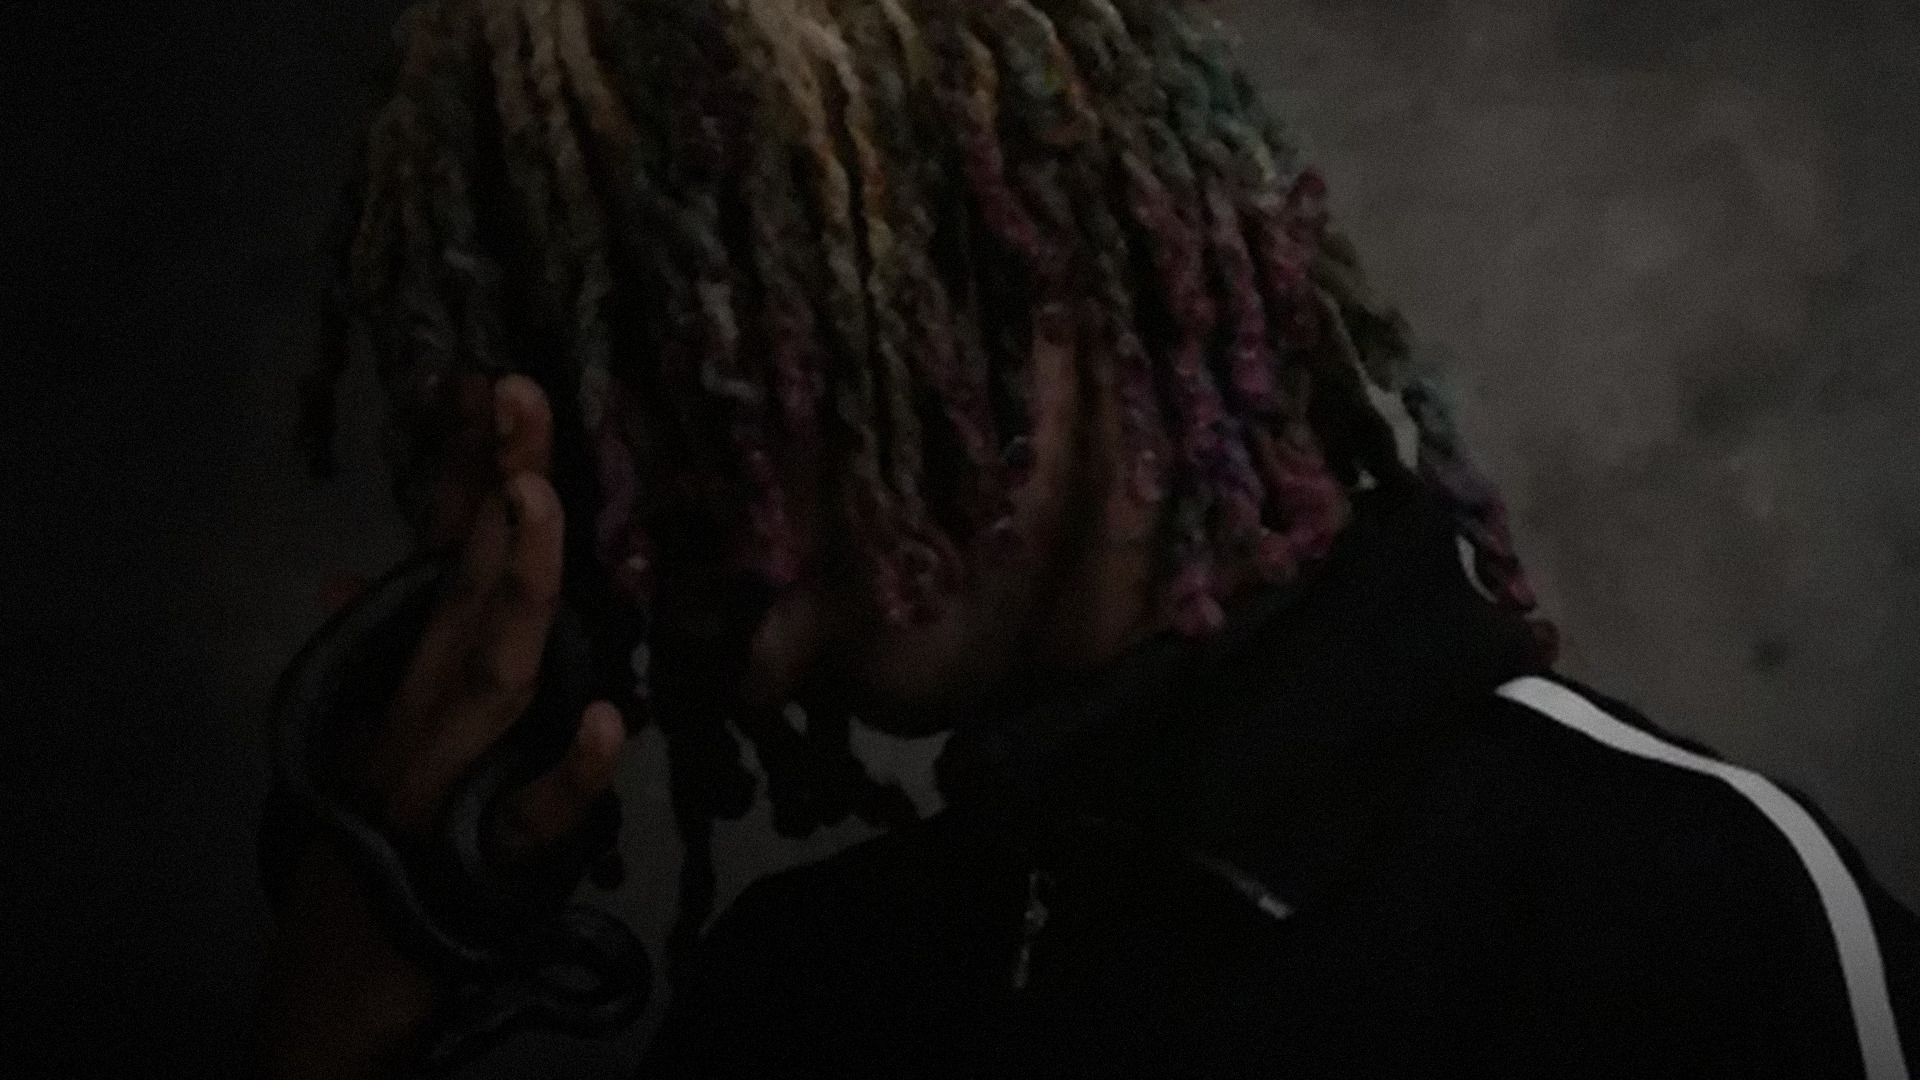
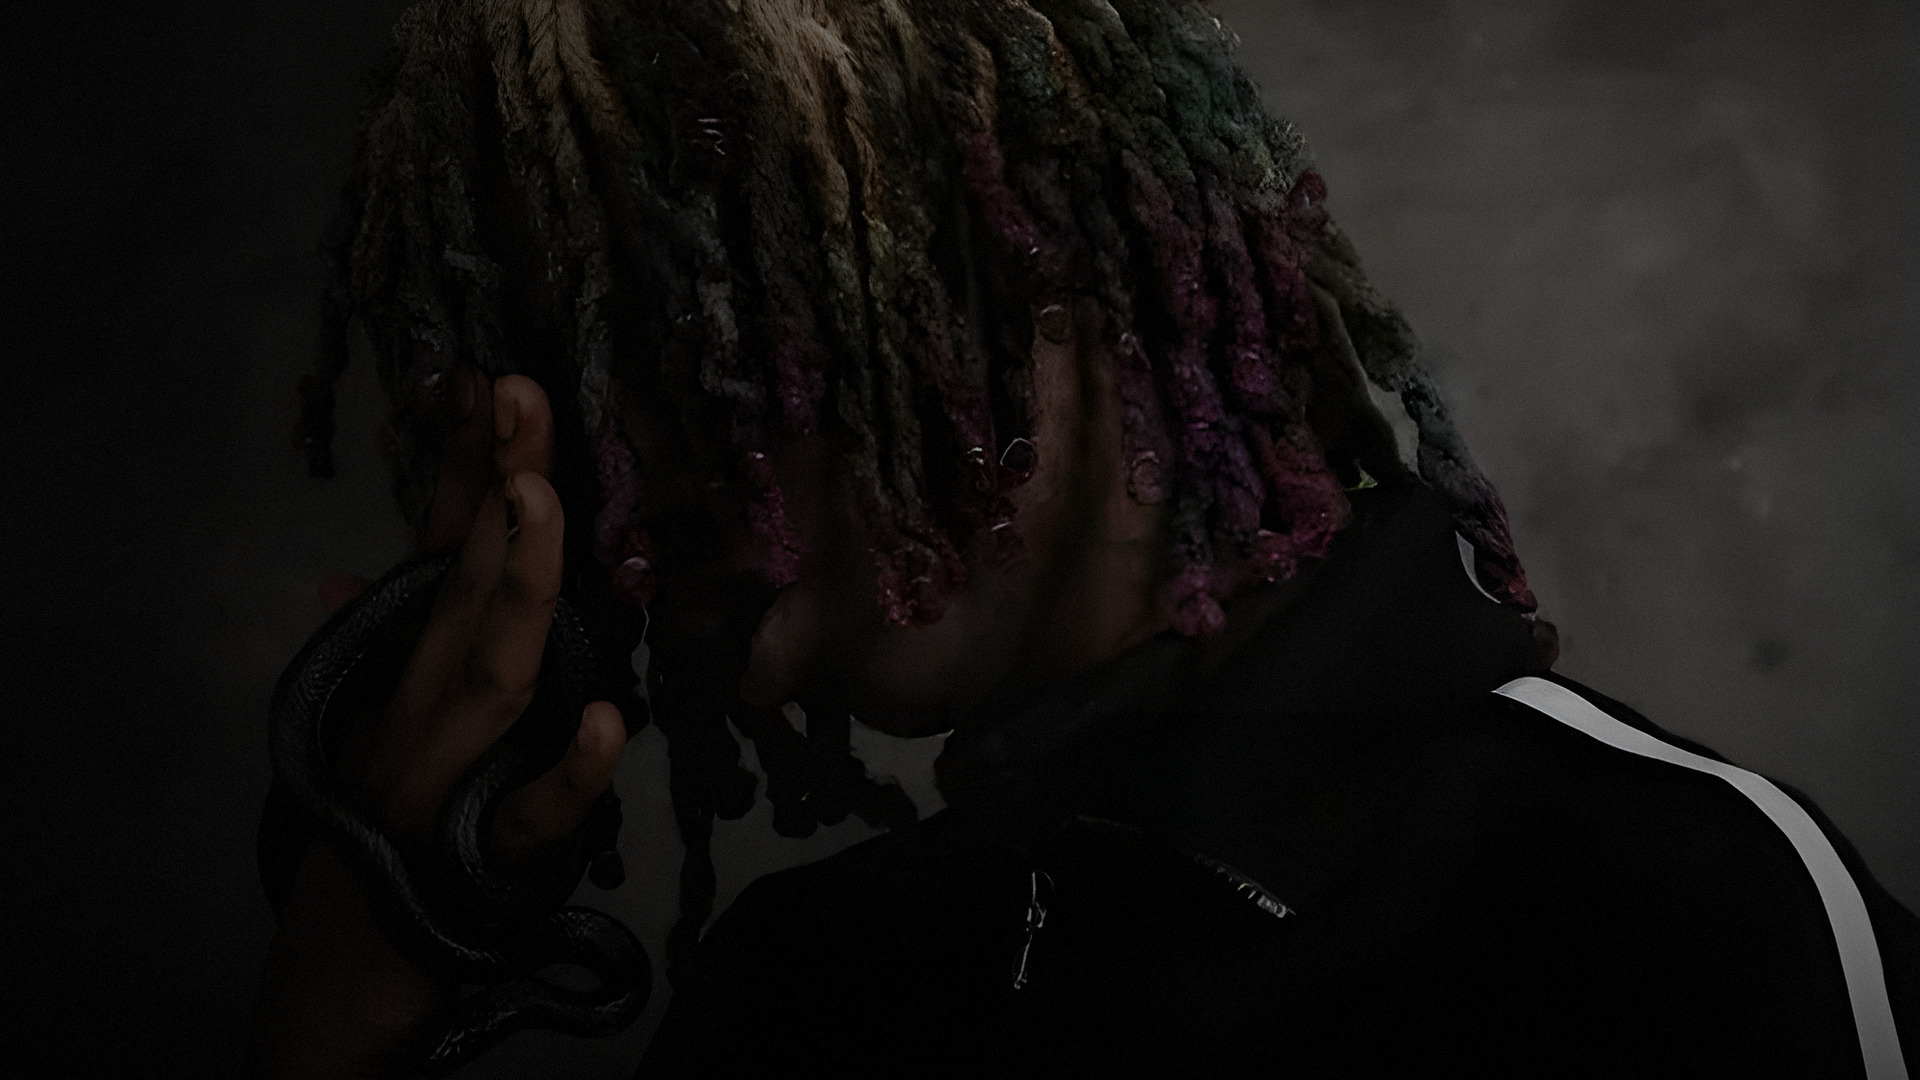
Fotos per KI hochskaliert (Real-ESRGAN), Rapper-Shuffle ohne Features
Claude-Session: https://claude.ai/code/session_012xsyoHmz2QpYyobQWsGy7V

diff --git a/app/src/main/java/at/domi/tvlauncher/Rapper.java b/app/src/main/java/at/domi/tvlauncher/Rapper.java
@@ -4,16 +4,16 @@ package at.domi.tvlauncher;
 final class Rapper {
     static final Rapper[] LIST = {
             new Rapper("Ken Carson", "UCaG2V4fBeGjBVuLQu7bCcGg", 0xffff2a2a, 0xff2a0000,
-                    "80M6sAU9DY4", "vkhsaxlCSmc", "gpbQ4A4tQuU", "YKkMR2l05Rs", "Gbqa9n1XOes", "Ve5jWpIu6Ic", "jao-W5tJkYo", "YxBCe5aaCe0",
-                    "TMzs6GvsZXU", "KMoHAuvwN3Y", "s2cZAbja5qo", "7wAx6jeXM7o", "SC6A7WoKugQ", "nYPkghSmZAs", "yZTUSTHSSJU", "8De1G041tQI"),
+                    "80M6sAU9DY4", "vkhsaxlCSmc", "gpbQ4A4tQuU", "YKkMR2l05Rs", "Ve5jWpIu6Ic", "jao-W5tJkYo", "YxBCe5aaCe0",
+                    "TMzs6GvsZXU", "KMoHAuvwN3Y", "7wAx6jeXM7o", "SC6A7WoKugQ", "nYPkghSmZAs", "yZTUSTHSSJU", "8De1G041tQI"),
             new Rapper("Bleood", "UC8CEtaDirOYBKHKWoW62S2A", 0xffd0102a, 0xff16000a,
-                    "g45uHIKCsYw", "LwHFzGHQnXk", "FqNA3F1JKIQ", "PixcdDll-XU", "zGXyqfEOwz8", "QRA-lFf1EKs", "wiBrmjBRJz0", "czaMOYTakP8"),
+                    "g45uHIKCsYw", "LwHFzGHQnXk", "FqNA3F1JKIQ", "PixcdDll-XU", "zGXyqfEOwz8", "wiBrmjBRJz0", "czaMOYTakP8"),
             new Rapper("Protect", "UCCgpOoFCHl46dgijTtOQAVA", 0xff2f7bff, 0xff020a26,
                     "j_7vJBENfJw", "DuY3rGD9LLE", "diNEhHKRRKw", "bShC2XMdYXM", "5ncXdk7ewpk", "6hkt9SPgKpU"),
             new Rapper("OsamaSon", "UCh_YNYvD3VX1wepTg1ydUaA", 0xff8cff3a, 0xff061402,
-                    "8Zuh44rji24", "aE-9hFktH40", "4DIQDnu3mr4", "Fy7WIdkxwDw", "lTQ8k9uysXo", "UQ13LFqaTF8", "5EJ5Ci5UGgk", "6kTjJwPv5V0", "sXYXT70ICnw"),
+                    "8Zuh44rji24", "aE-9hFktH40", "4DIQDnu3mr4", "Fy7WIdkxwDw", "lTQ8k9uysXo", "5EJ5Ci5UGgk", "6kTjJwPv5V0", "sXYXT70ICnw"),
             new Rapper("Nettspend", "UC6CvS47L6uTuPSPhinE5jKA", 0xffff4fd8, 0xff1c0420,
-                    "BRfZe0mLcpw", "9SrWNGvrtVc", "fekiI4Vkt9Y", "wC1ho-3CZcg", "x8gEkJAVd-I", "p1Hq68tFR4g", "aUtDhHNTJUE", "PvPGEBaXMRs", "KoH6Fpju-Y4"),
+                    "BRfZe0mLcpw", "9SrWNGvrtVc", "fekiI4Vkt9Y", "wC1ho-3CZcg", "x8gEkJAVd-I", "aUtDhHNTJUE", "PvPGEBaXMRs", "KoH6Fpju-Y4"),
     };
 
     final String name;
